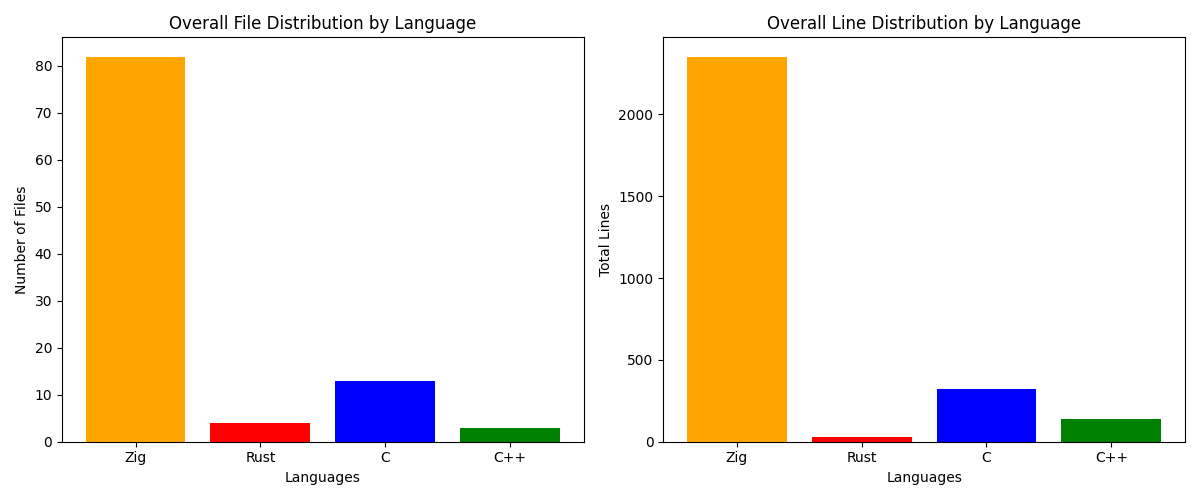
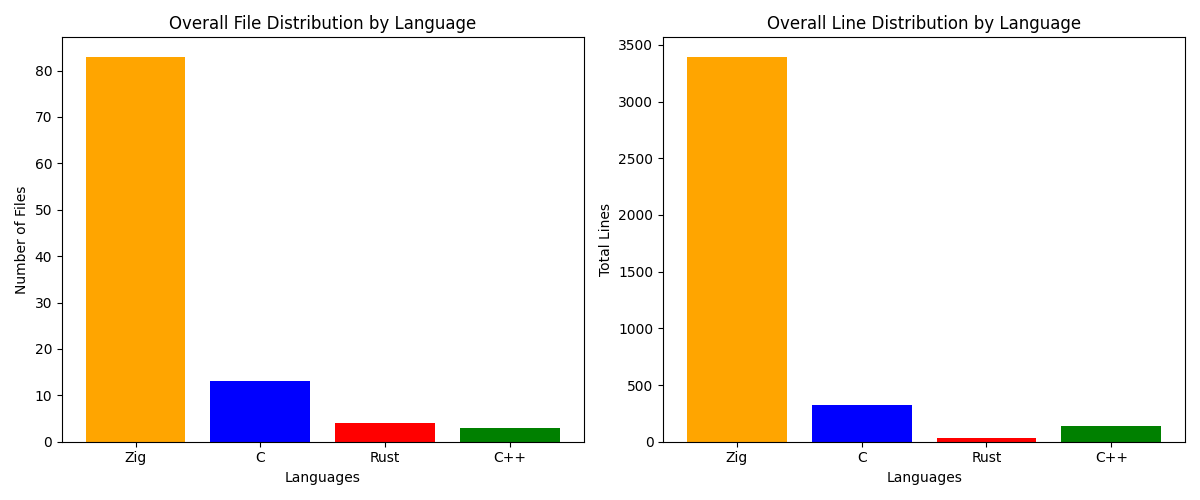
Update README.md with statistics

diff --git a/README.md b/README.md
@@ -45,7 +45,7 @@ Rust target: `rustup target add armv7-unknown-linux-gnueabihf`
 
 | Language   |   Number of Files |   Total Lines | Percentage of Total Files   | Percentage of Total Lines   |
 |------------|-------------------|---------------|-----------------------------|-----------------------------|
-| Zig        |                82 |          2353 | 80.39%                      | 82.74%                      |
-| Rust       |                 4 |            31 | 3.92%                       | 1.09%                       |
-| C          |                13 |           323 | 12.75%                      | 11.36%                      |
-| C++        |                 3 |           137 | 2.94%                       | 4.82%                       |
+| Zig        |                83 |          3397 | 80.58%                      | 87.37%                      |
+| C          |                13 |           323 | 12.62%                      | 8.31%                       |
+| Rust       |                 4 |            31 | 3.88%                       | 0.80%                       |
+| C++        |                 3 |           137 | 2.91%                       | 3.52%                       |
